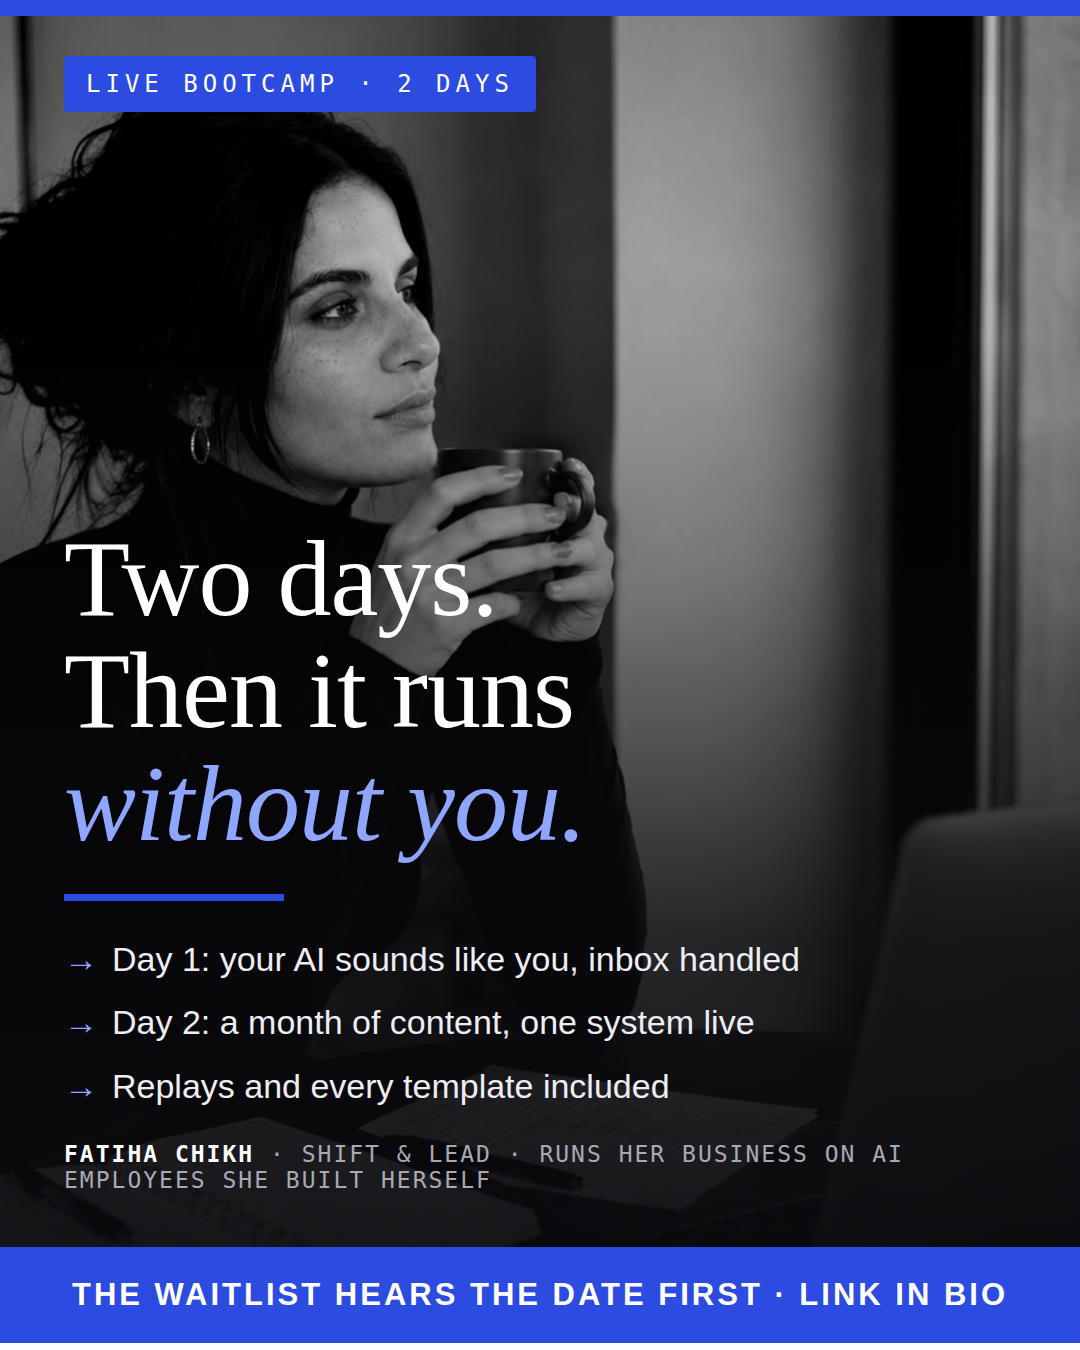
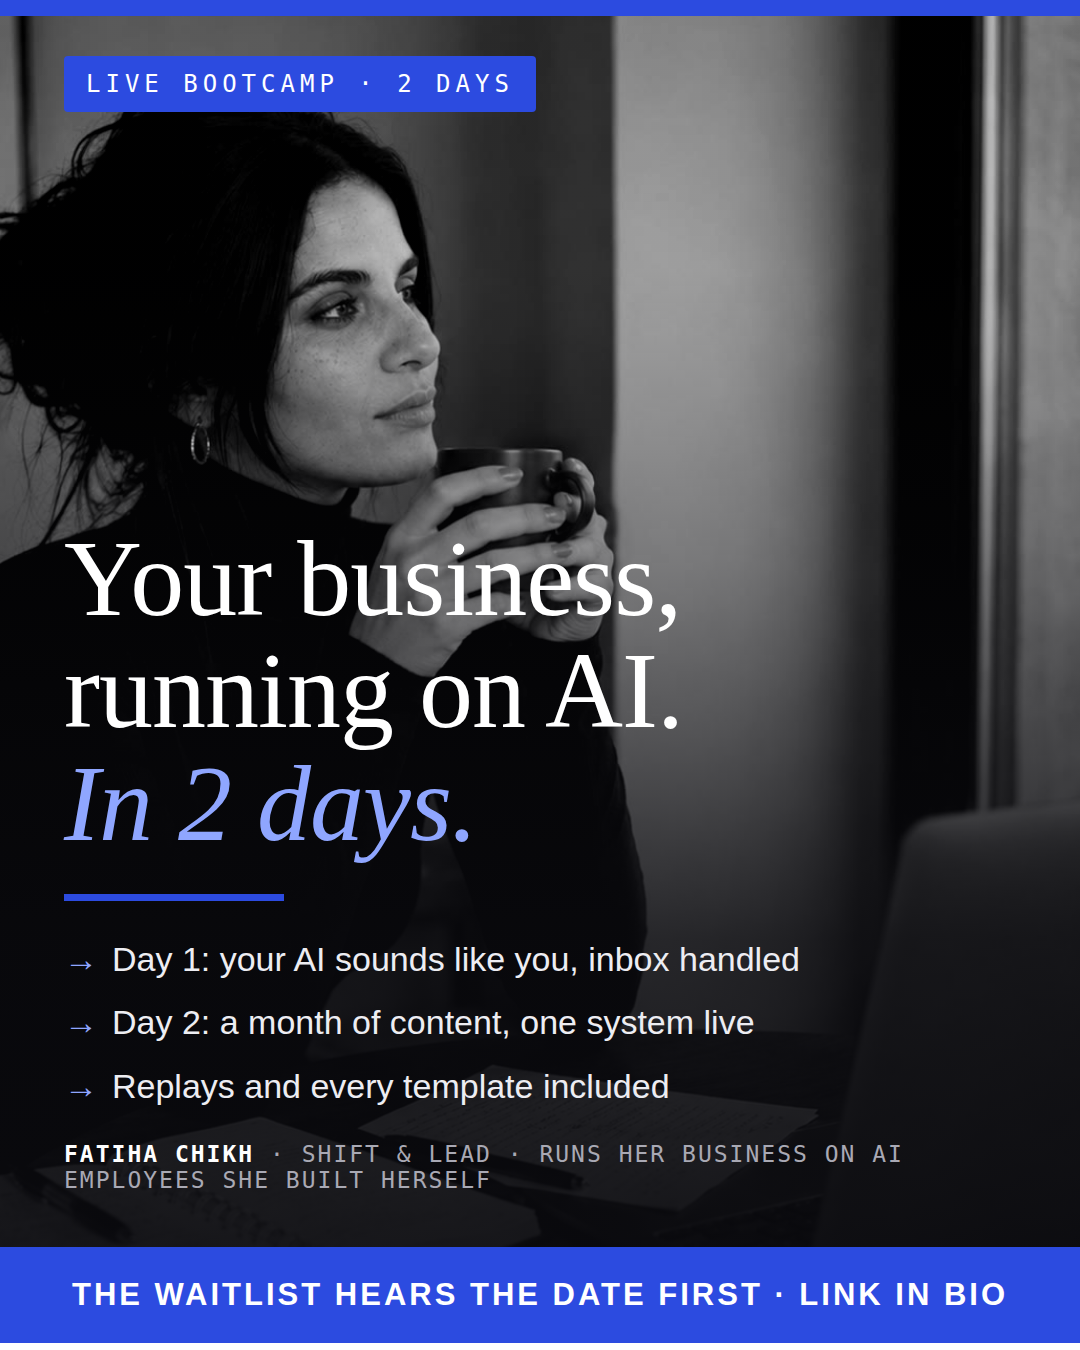
Rename the three events to obvious first-glance titles
Per the obvious-beats-clever voice rule (Fatiha direction): names now
say the thing itself. Masterclass = Hire Your First AI Employee.
Bootcamp = Set Up Your Business to Run on AI, in 2 days. Get It Done
Day keeps its name with the built-before-dinner line demoted to the
body. Page titles, og titles, H1s, and all three flyers re-rendered
to match.

Claude-Session: https://claude.ai/code/session_01SgJCh3nveidw1bLg5rA63y

Changed region(s): [[0.0611, 0.4044, 0.6417, 0.6533]]

diff --git a/main-site/get-it-done.html b/main-site/get-it-done.html
@@ -6,9 +6,9 @@
 <link rel="icon" href="/favicon.ico" sizes="32x32">
 <!-- PRE-LAUNCH: flip to "index, follow" when the price and Stripe link are live -->
 <meta name="robots" content="noindex, nofollow">
-<title>Built Before Dinner. | The Get It Done Day | Shift & Lead</title>
+<title>The Get It Done Day: Your Automation Working by Tonight | Shift & Lead</title>
 <meta name="description" content="A hands-on day capped at 10 people. The automation that has been half-finished for months is working before you leave. Templates included.">
-<meta property="og:title" content="Built Before Dinner. | The Get It Done Day | Shift & Lead">
+<meta property="og:title" content="The Get It Done Day: Your Automation Working by Tonight | Shift & Lead">
 <meta property="og:description" content="A hands-on day capped at 10 people. The automation that has been half-finished for months is working before you leave. Templates included.">
 <meta property="og:type" content="website">
 <meta property="og:url" content="https://www.shiftandlead.com/get-it-done.html">
@@ -101,8 +101,8 @@ section{scroll-margin-top:70px}
 
 <section class="hero"><div class="hero-inner">
   <div class="hero-kicker">Hands-on working day · maximum 10 seats</div>
-  <h1>Built <em>before dinner.</em></h1>
-  <p class="hero-sub">A small room, ten laptops, one rule: nobody leaves with a to-do list. The thing that has been half-set-up for months is working before the day ends, because we build it together, side by side.</p>
+  <h1>The Get It Done <em>Day.</em></h1>
+  <p class="hero-sub">One hands-on day, ten people maximum. You come with the setup that has been half-finished for months. You leave with it running, because we build it together, side by side. Nobody leaves with a to-do list.</p>
   <!-- SWAP TO LIVE STRIPE PAYMENT LINK WHEN PRICE IS SET -->
   <a class="btn-primary" href="#waitlist">Save my seat</a>
   <p class="hero-note">Date announced to the waitlist first.</p>

diff --git a/main-site/masterclass.html b/main-site/masterclass.html
@@ -6,9 +6,9 @@
 <link rel="icon" href="/favicon.ico" sizes="32x32">
 <!-- PRE-LAUNCH: flip to "index, follow" when the price and Stripe link are live -->
 <meta name="robots" content="noindex, nofollow">
-<title>Leave With an AI Employee. Running. | Live Masterclass | Shift & Lead</title>
+<title>Hire Your First AI Employee | 90-Minute Live Masterclass | Shift & Lead</title>
 <meta name="description" content="A 90-minute live masterclass. Bring a laptop and one task you are sick of. Leave with an AI employee doing it. No code, no jargon.">
-<meta property="og:title" content="Leave With an AI Employee. Running. | Live Masterclass | Shift & Lead">
+<meta property="og:title" content="Hire Your First AI Employee | 90-Minute Live Masterclass | Shift & Lead">
 <meta property="og:description" content="A 90-minute live masterclass. Bring a laptop and one task you are sick of. Leave with an AI employee doing it. No code, no jargon.">
 <meta property="og:type" content="website">
 <meta property="og:url" content="https://www.shiftandlead.com/masterclass.html">
@@ -101,7 +101,7 @@ section{scroll-margin-top:70px}
 
 <section class="hero"><div class="hero-inner">
   <div class="hero-kicker">Live online masterclass · 90 minutes</div>
-  <h1>Leave with an AI employee. <em>Running.</em></h1>
+  <h1>Hire your first <em>AI employee.</em></h1>
   <p class="hero-sub">90 minutes, live with me. You bring a laptop and one task you are sick of doing. You leave with an AI employee doing it for you. No code. No jargon. No homework you will never open again.</p>
   <!-- SWAP TO LIVE STRIPE PAYMENT LINK WHEN PRICE IS SET -->
   <a class="btn-primary" href="#waitlist">Save my seat</a>

diff --git a/main-site/bootcamp.html b/main-site/bootcamp.html
@@ -6,9 +6,9 @@
 <link rel="icon" href="/favicon.ico" sizes="32x32">
 <!-- PRE-LAUNCH: flip to "index, follow" when the price and Stripe link are live -->
 <meta name="robots" content="noindex, nofollow">
-<title>Two Days. Then It Runs Without You. | Live Bootcamp | Shift & Lead</title>
+<title>Set Up Your Business to Run on AI | 2-Day Live Bootcamp | Shift & Lead</title>
 <meta name="description" content="A 2-day live bootcamp. Day 1: your AI sounds like you and your inbox is handled. Day 2: a month of content drafted and one system running while we watch.">
-<meta property="og:title" content="Two Days. Then It Runs Without You. | Live Bootcamp | Shift & Lead">
+<meta property="og:title" content="Set Up Your Business to Run on AI | 2-Day Live Bootcamp | Shift & Lead">
 <meta property="og:description" content="A 2-day live bootcamp. Day 1: your AI sounds like you and your inbox is handled. Day 2: a month of content drafted and one system running while we watch.">
 <meta property="og:type" content="website">
 <meta property="og:url" content="https://www.shiftandlead.com/bootcamp.html">
@@ -101,7 +101,7 @@ section{scroll-margin-top:70px}
 
 <section class="hero"><div class="hero-inner">
   <div class="hero-kicker">Live online bootcamp · 2 days</div>
-  <h1>Two days. Then it runs <em>without you.</em></h1>
+  <h1>Your business, running on AI. <em>In 2 days.</em></h1>
   <p class="hero-sub">Not a course you watch later. Two working days, live with me, where we build the system into YOUR business while you watch it start running.</p>
   <!-- SWAP TO LIVE STRIPE PAYMENT LINK WHEN PRICE IS SET -->
   <a class="btn-primary" href="#waitlist">Save my seat</a>
